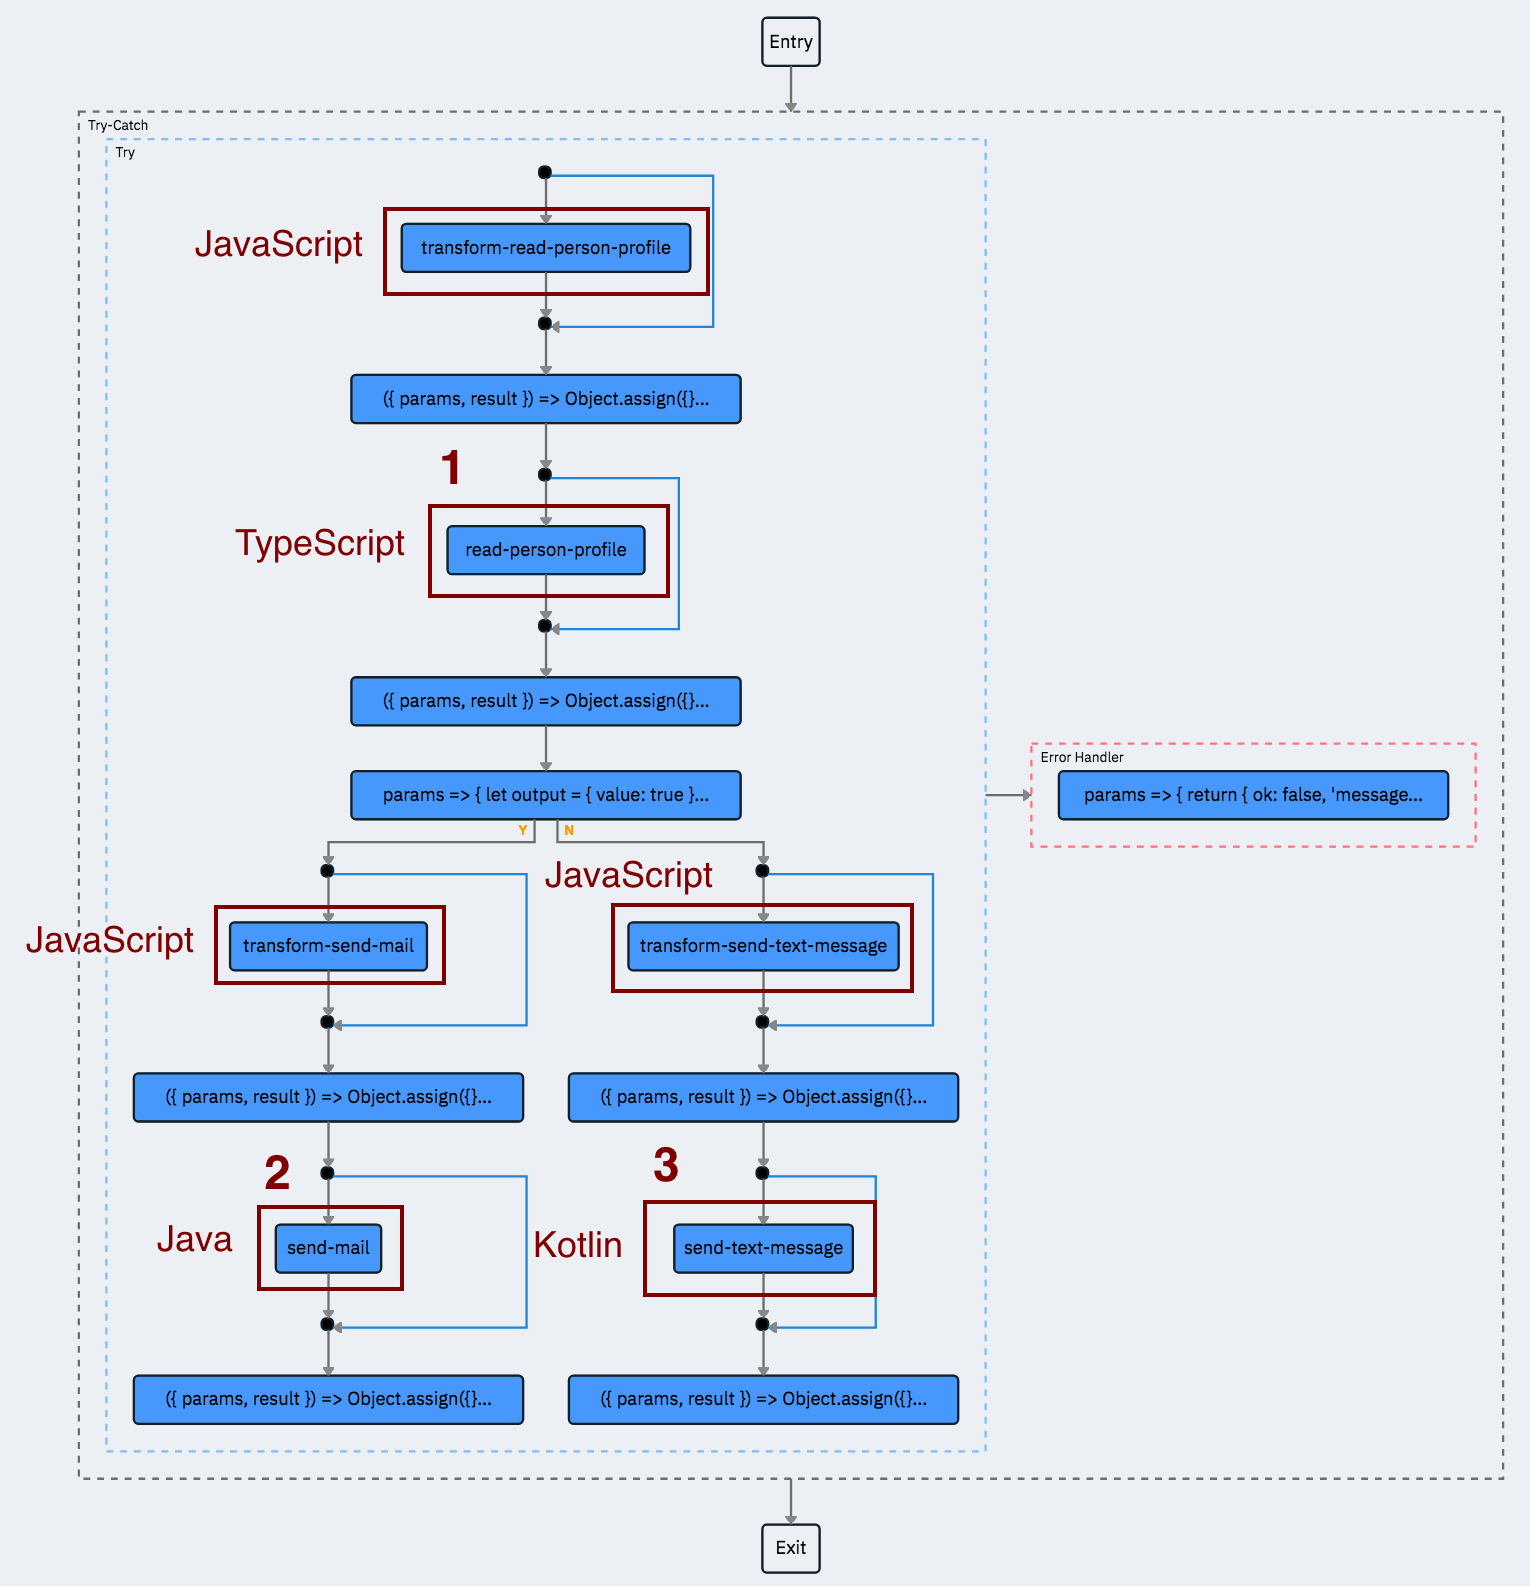
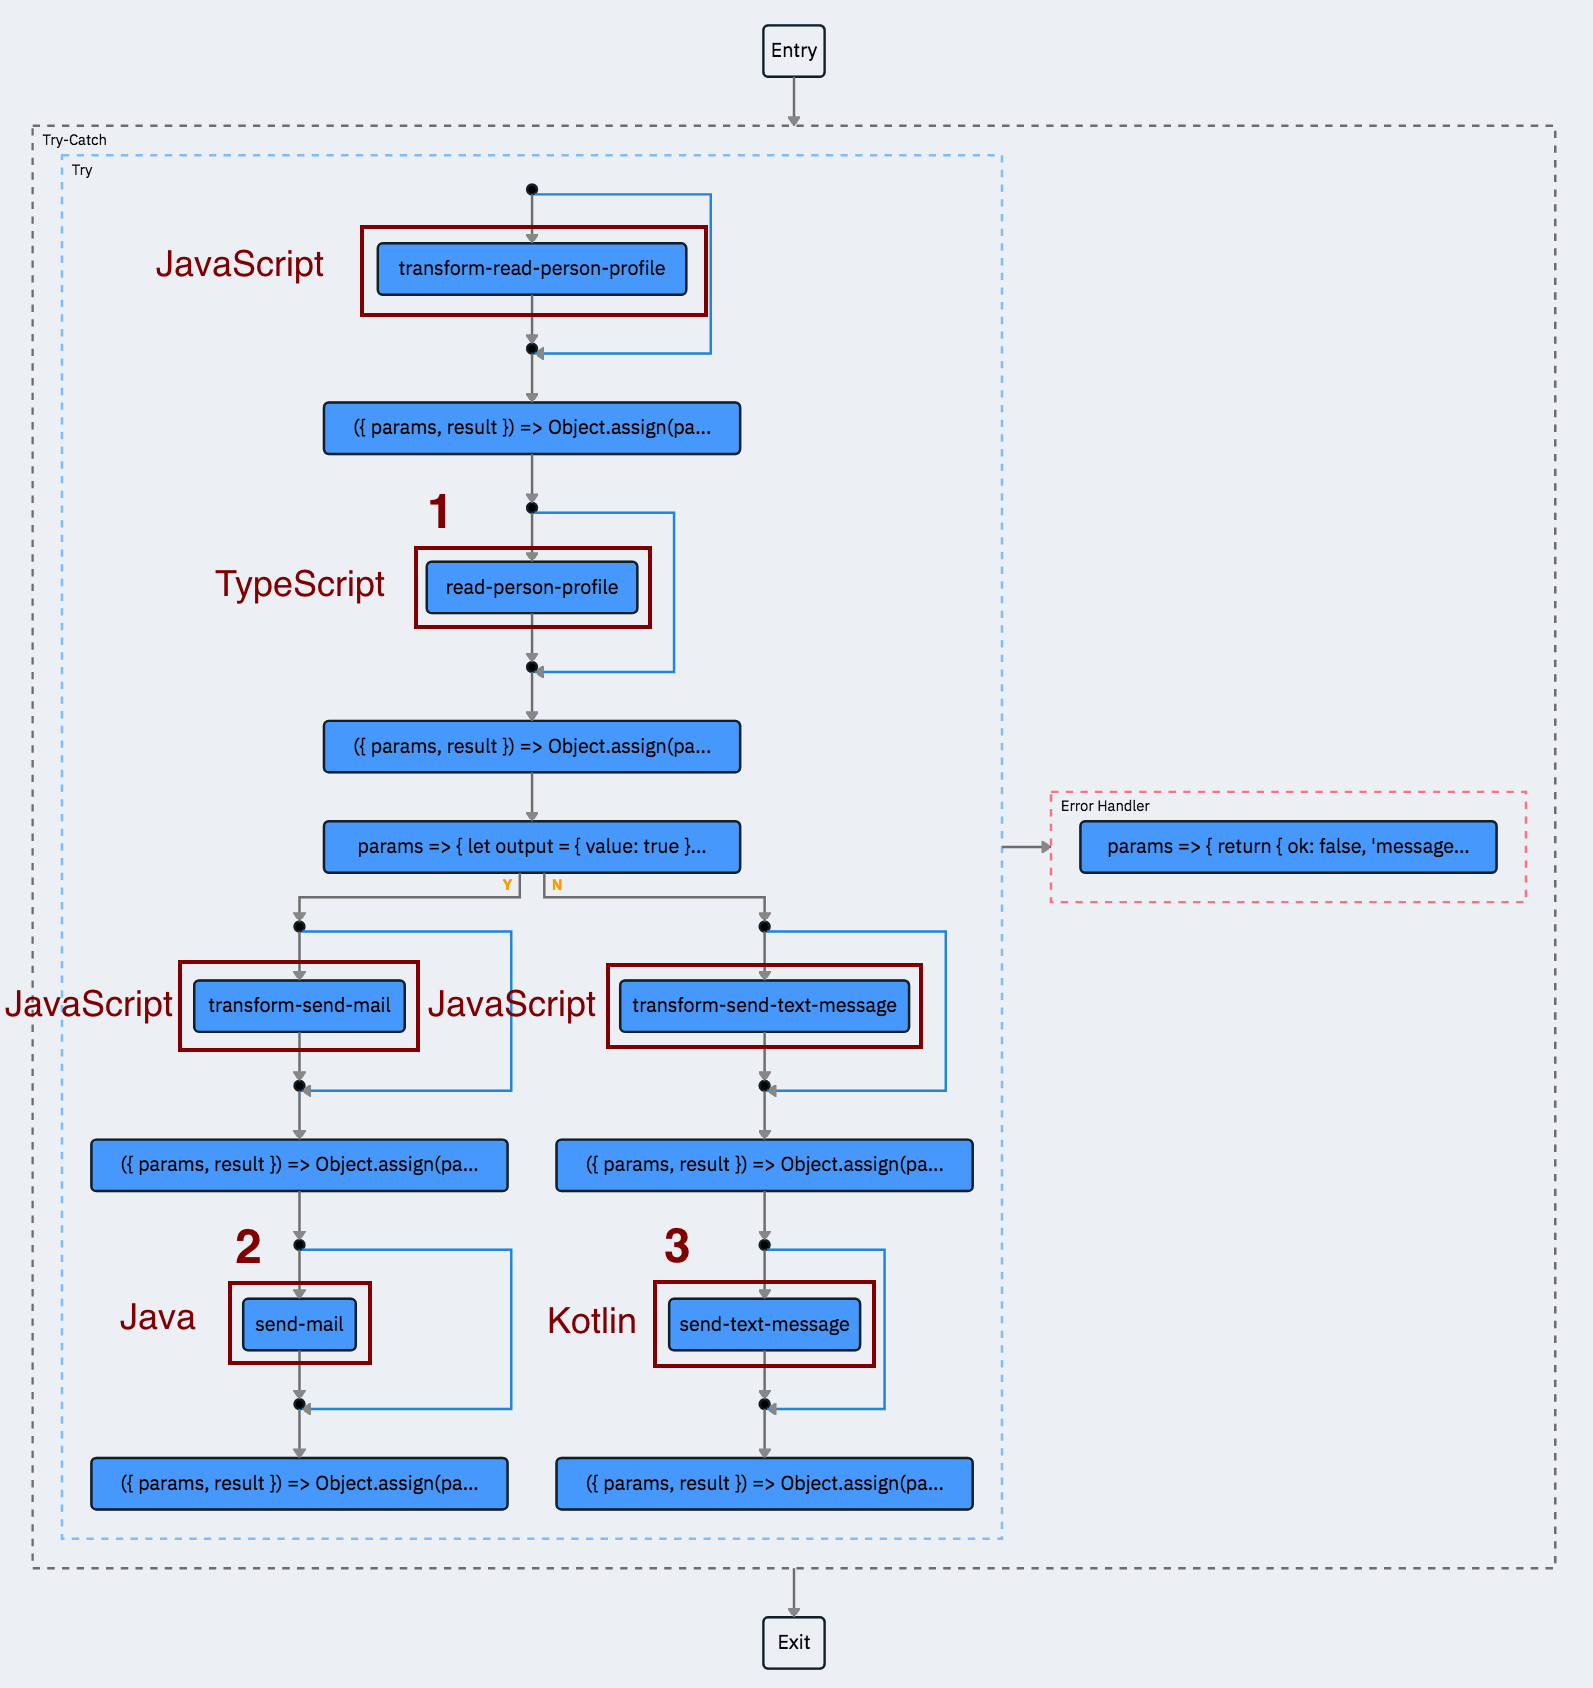
remove merge from app since not supported in v2

diff --git a/app/app.js b/app/app.js
@@ -1,7 +1,7 @@
 composer.try(
     composer.sequence(
-        composer.task('polyglot-demo-nh/transform-read-person-profile', { merge: true }),
-        composer.task('polyglot-demo-nh/read-person-profile', { merge: true }),
+        composer.seq(composer.retain('polyglot-demo-nh/transform-read-person-profile'), ({ params, result }) => Object.assign(params, result)),
+        composer.seq(composer.retain('polyglot-demo-nh/read-person-profile'), ({ params, result }) => Object.assign(params, result)),
         composer.if(
             params => {
                 let output = { value: true }
@@ -12,12 +12,12 @@ composer.try(
                 return output;
             },                        
             composer.sequence(
-                composer.task('polyglot-demo-nh/transform-send-mail', { merge: true }),
-                composer.task('polyglot-demo-nh/send-mail', { merge: true })
+                composer.seq(composer.retain('polyglot-demo-nh/transform-send-mail'), ({ params, result }) => Object.assign(params, result)),
+                composer.seq(composer.retain('polyglot-demo-nh/send-mail'), ({ params, result }) => Object.assign(params, result))
             ),
             composer.sequence(
-                composer.task('polyglot-demo-nh/transform-send-text-message', { merge: true }),
-                composer.task('polyglot-demo-nh/send-text-message', { merge: true })
+                composer.seq(composer.retain('polyglot-demo-nh/transform-send-text-message'), ({ params, result }) => Object.assign(params, result)),
+                composer.seq(composer.retain('polyglot-demo-nh/send-text-message'), ({ params, result }) => Object.assign(params, result))
             )
         )
     ),

diff --git a/functions/javascript/transform-read-person-profile.js b/functions/javascript/transform-read-person-profile.js
@@ -1,5 +1,7 @@
 let main = params => {
     try {
+        console.log('transform-read-person-profile input');
+        console.log(params);
         let subject = params.subject;
         let id = params.id;        
 
@@ -12,9 +14,11 @@ let main = params => {
                 'subject': subject
             }
         }
+        console.log('transform-read-person-profile output');
+        console.log(outputParameters);
         return outputParameters;
     }
-    catch (error) {
+    catch (error) {        
         return { // for testing purposes only
             'input': {
                 'id': 'heidloff'

diff --git a/functions/typescript/src/function.ts b/functions/typescript/src/function.ts
@@ -5,8 +5,11 @@ const app = express()
 app.use(bodyParser.json());
 
 app.post('/run', (req, res) => {
-    let payload = (req.body || {}).value;
-    let id = payload.id;
+    let params = (req.body || {}).value;
+    console.log('read-person-profile input');
+    console.log(params);
+    let input = params['input'];     
+    let id = params.id;
 
     let result;
     if (id == 'nheidloff') {
@@ -61,6 +64,8 @@ app.post('/run', (req, res) => {
             }
         }
     }
+    console.log('read-person-profile output');
+    console.log(result);
     res.status(200).json(result);
 });
 

diff --git a/functions/javascript/transform-send-mail.js b/functions/javascript/transform-send-mail.js
@@ -2,6 +2,8 @@ const jsonata = require('jsonata');
 
 let main = params => {   
     try {
+        console.log('transform-send-mail input');
+        console.log(params);
         let inputApplication = params['input-application'];       
         let subject = inputApplication.subject;
         
@@ -17,6 +19,8 @@ let main = params => {
             }
         }        
         
+        console.log('transform-send-mail output');
+        console.log(outputParameters);
         return outputParameters;
     }
     catch (error) {        
